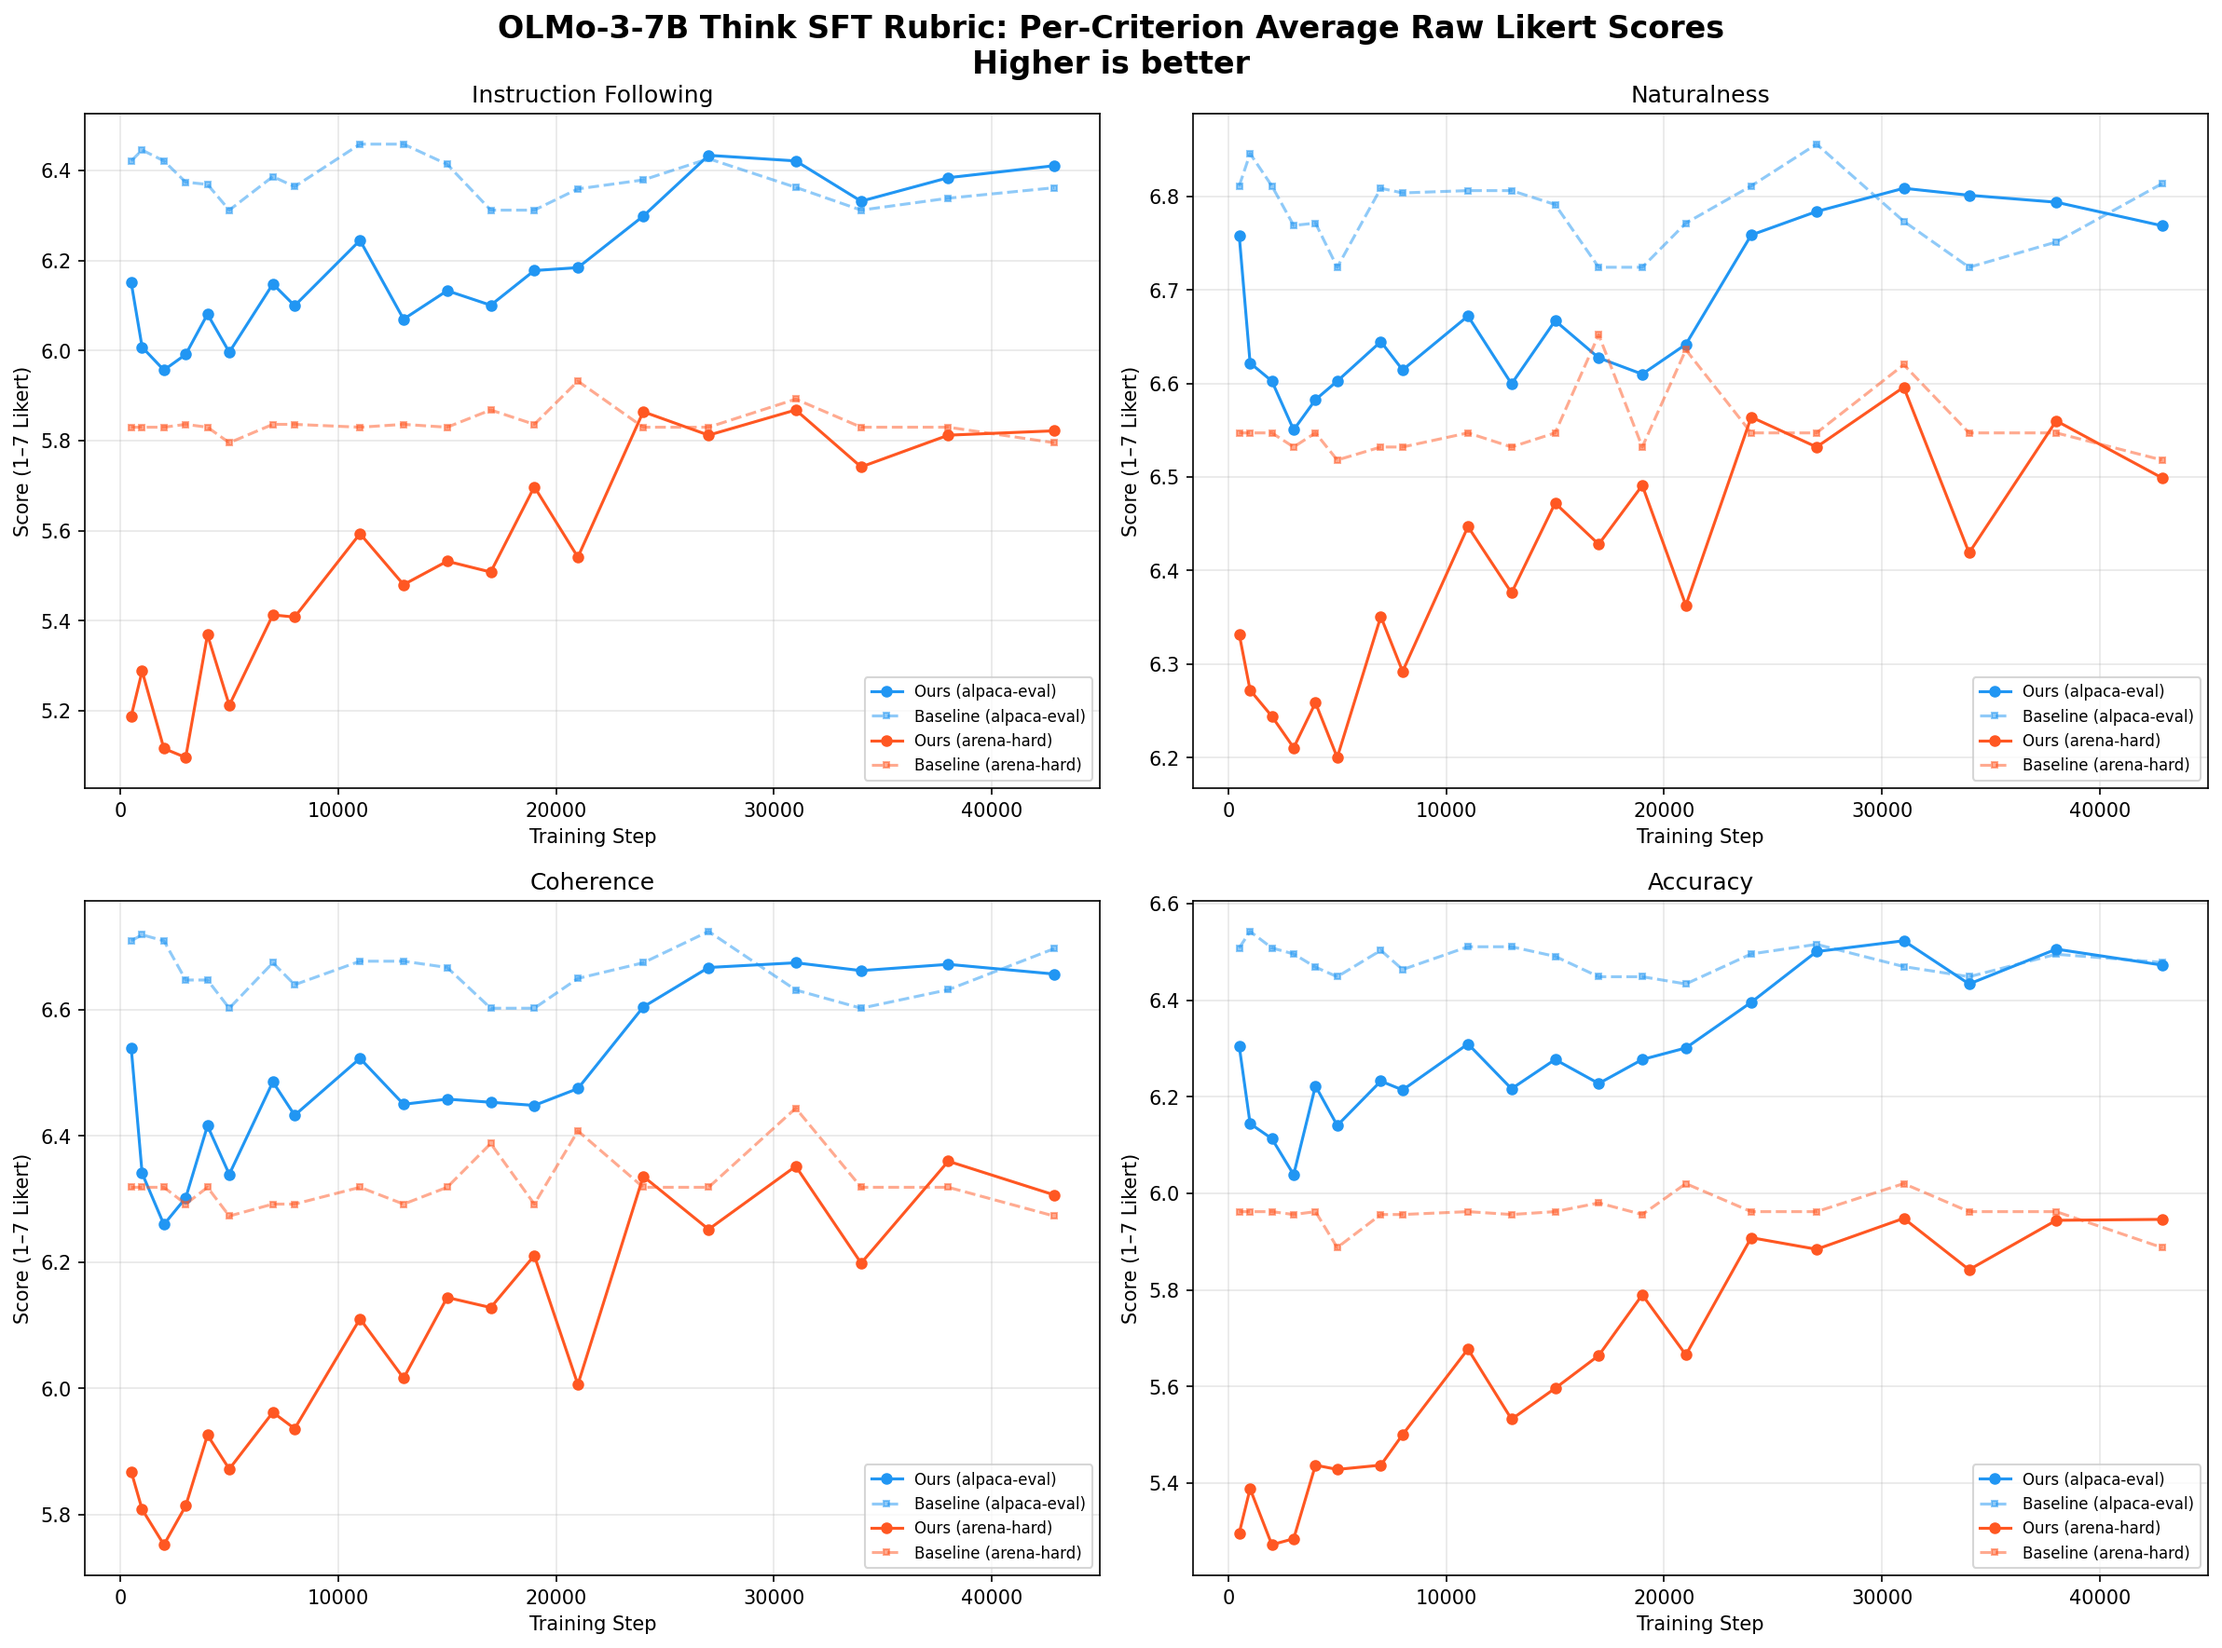
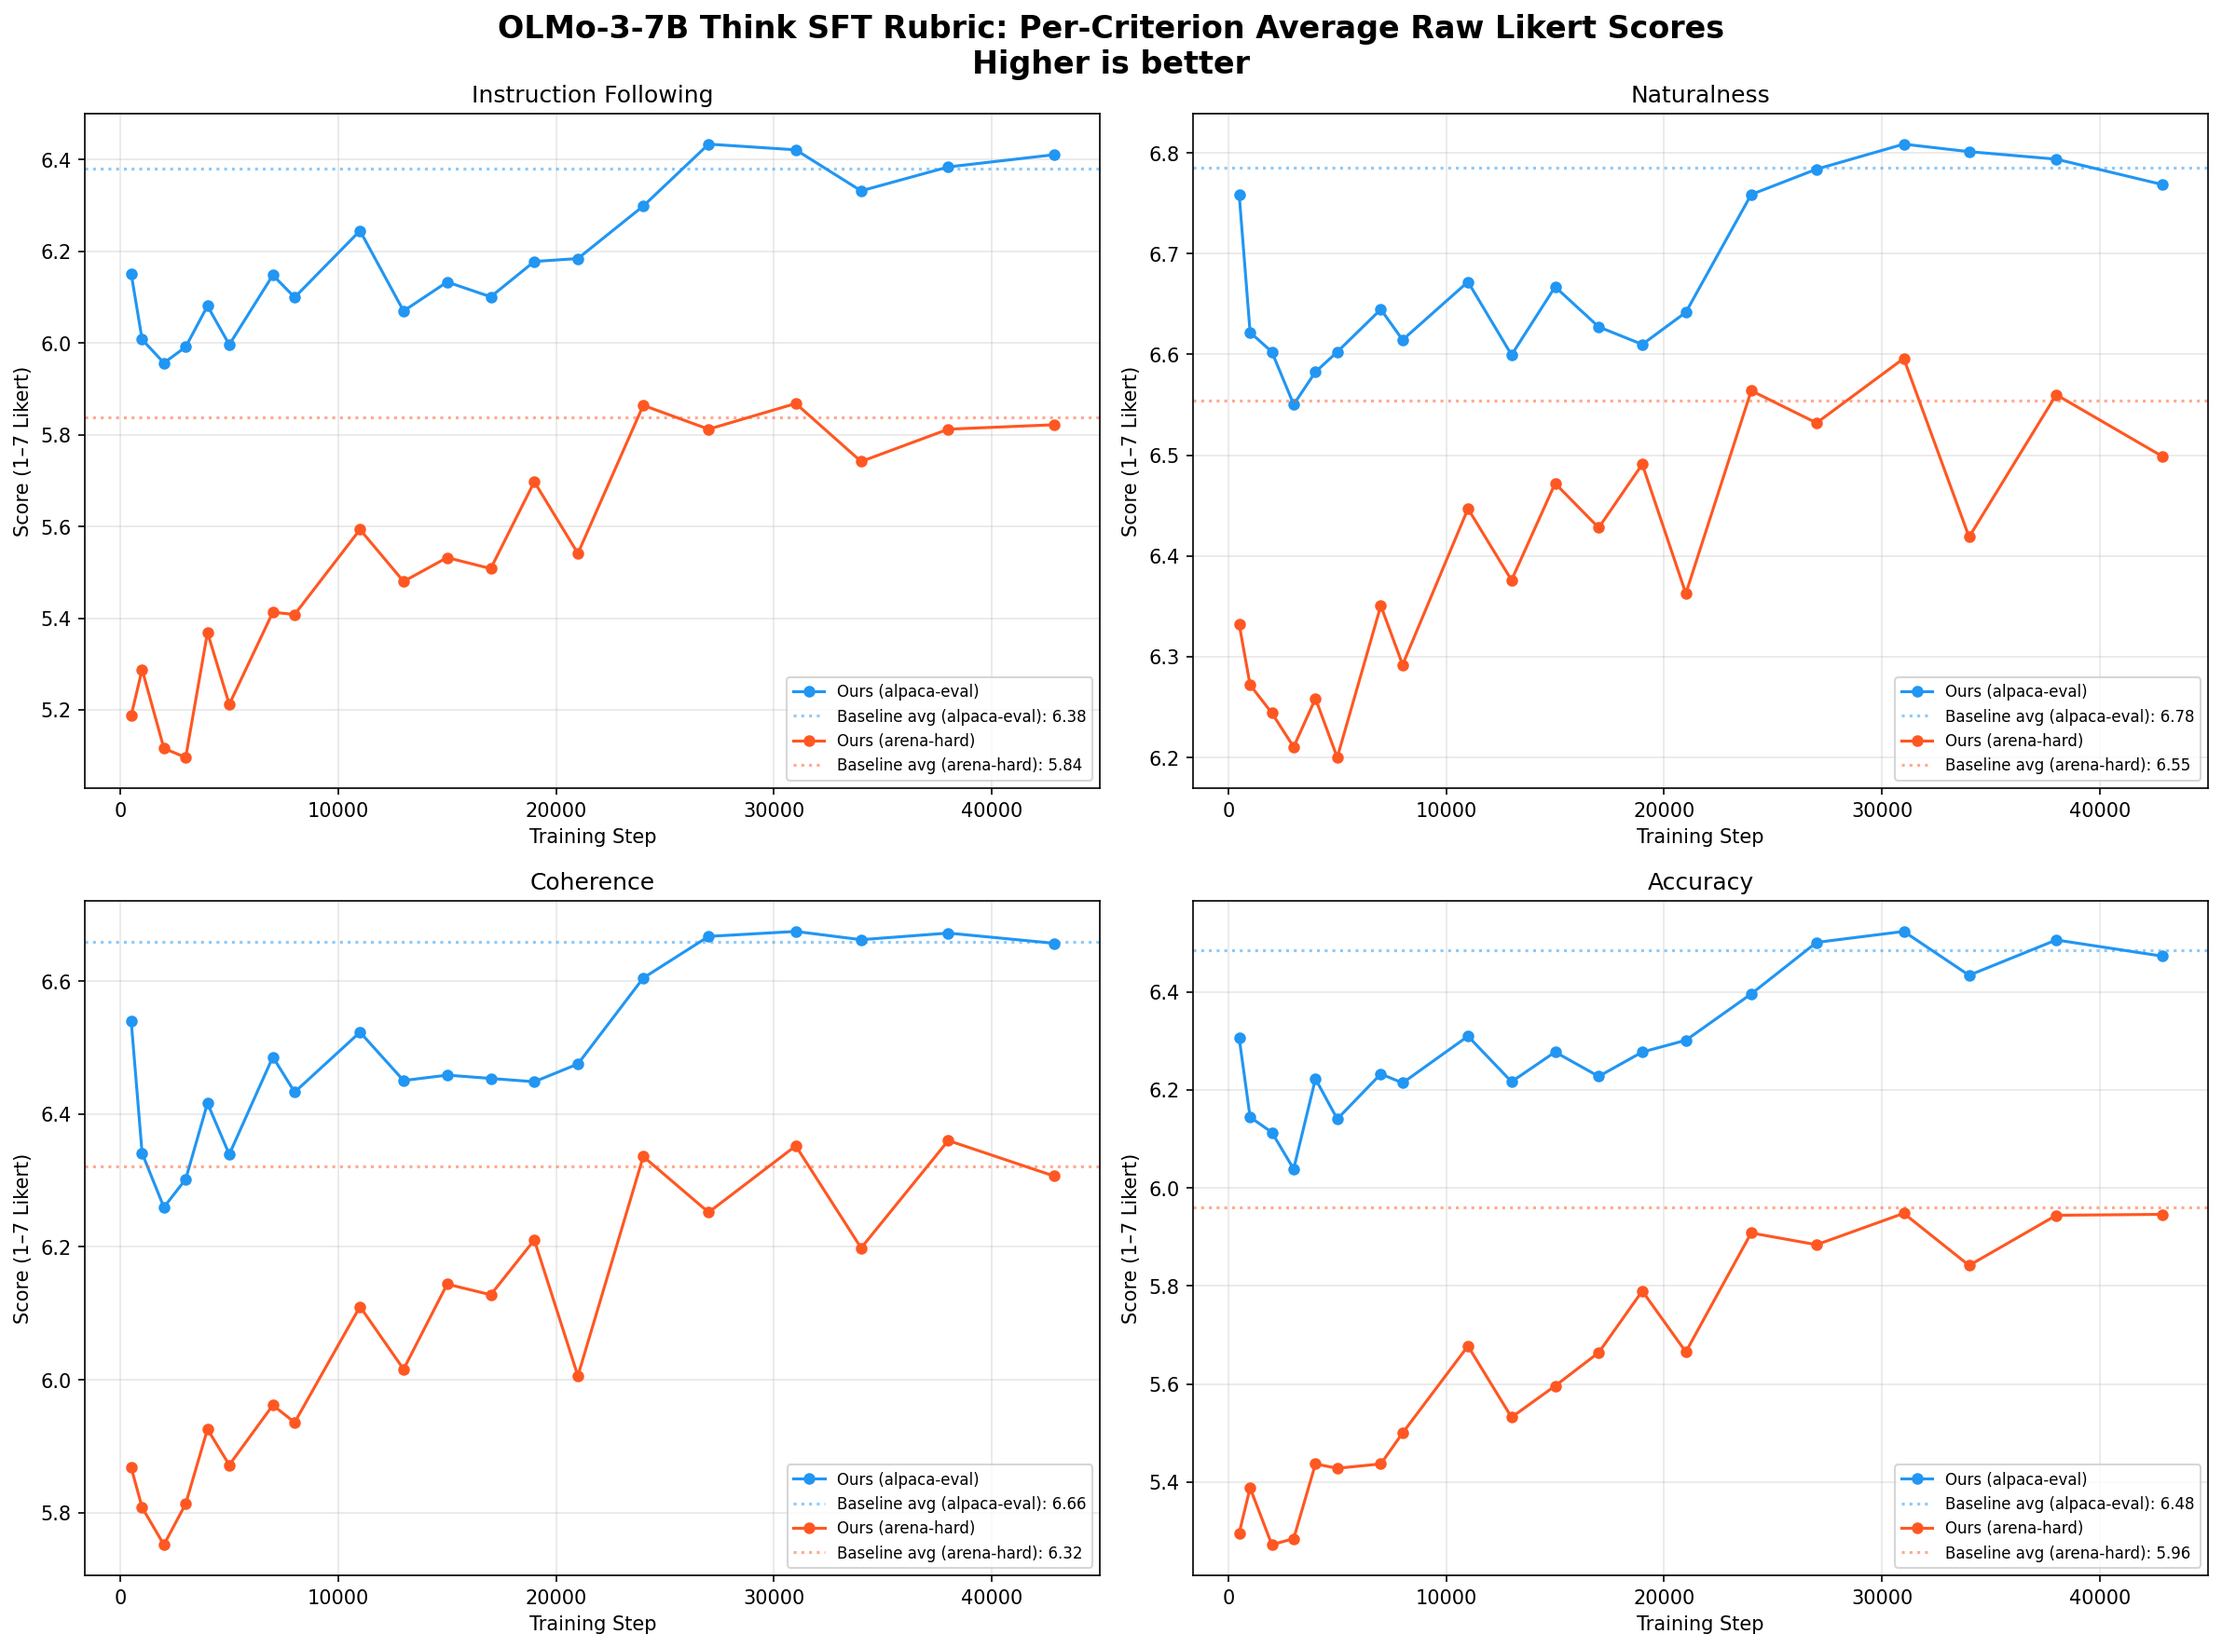
Auto-generate eval_results.md tables, revert baselines to constant lines
- aggregate_results.py now auto-updates the training curve section of
  eval_results.md (tables + image refs) when run
- Baselines back to constant horizontal average lines in all rubric plots

diff --git a/oellm/evaluations/eval_results.md b/oellm/evaluations/eval_results.md
@@ -236,7 +236,7 @@ Average score (0–1 scale, higher = better). Delta = Ours - Baseline.
 | 7000 | 0.932 | 0.896 | -0.036 | 0.859 | 0.798 | -0.061 |
 | 8000 | 0.928 | 0.890 | -0.038 | 0.859 | 0.797 | -0.062 |
 | 11000 | 0.936 | 0.906 | -0.029 | 0.861 | 0.826 | -0.035 |
-| 13000 | 0.936 | 0.889 | -0.047 | 0.859 | 0.808 | -0.050 |
+| 13000 | 0.936 | 0.889 | -0.047 | 0.859 | 0.808 | -0.051 |
 | 15000 | 0.932 | 0.897 | -0.034 | 0.861 | 0.823 | -0.038 |
 | 17000 | 0.920 | 0.892 | -0.028 | 0.870 | 0.822 | -0.048 |
 | 19000 | 0.920 | 0.896 | -0.024 | 0.859 | 0.841 | -0.018 |
